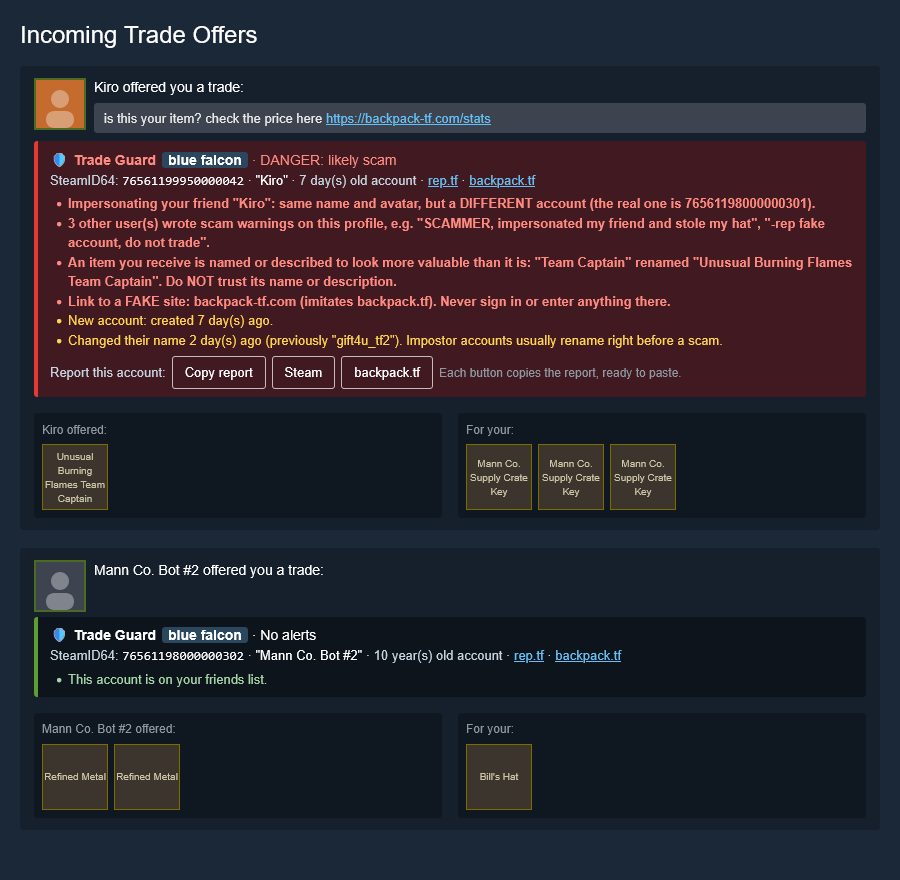
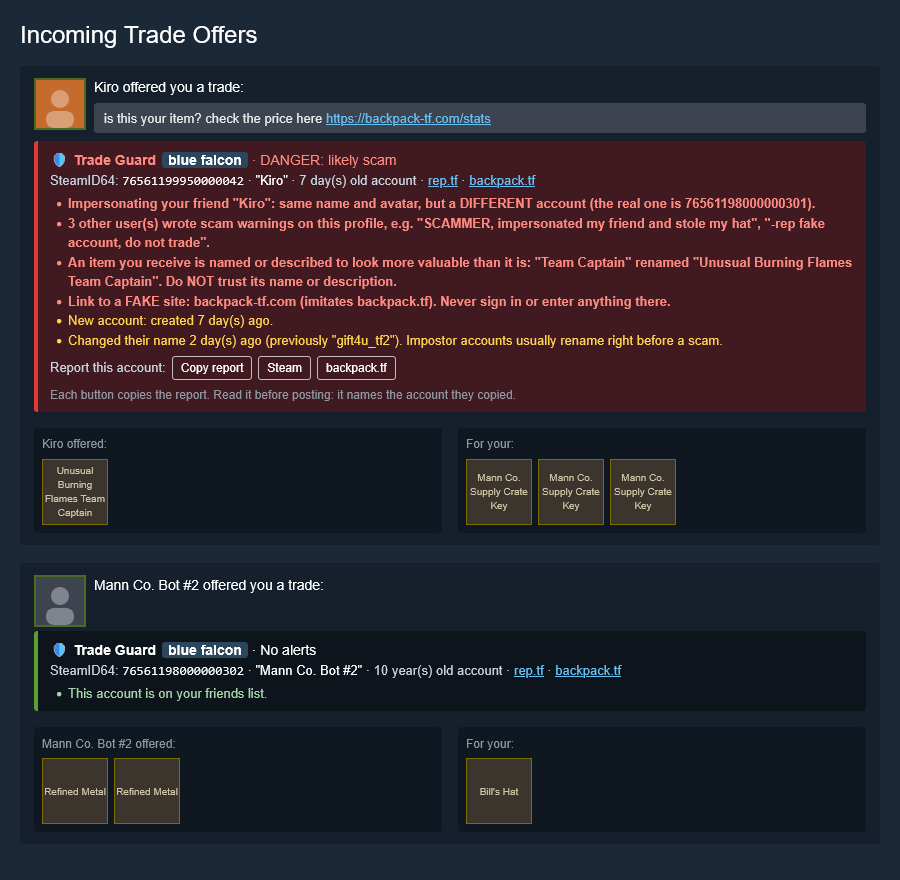
Document the review fixes and refresh the screenshots

Changed region(s): [[0.0311, 0.3989, 0.9644, 0.7977], [0.0311, 0.8284, 0.2178, 0.9511], [0.4978, 0.8284, 0.5911, 0.9511]]

diff --git a/README.md b/README.md
@@ -42,13 +42,13 @@ A userscript that protects Steam traders from the scams that empty the most TF2 
 - **What the community wrote:** reads the partner's profile comments. Warnings from several different people ("scammer", "stole", "impostor", "-rep") raise the alert; praise like "+rep, not a scammer" doesn't count. A new account with its comments hidden gets a yellow note.
 - **Verified bots:** paste the SteamIDs from a trading site's official bot list (menu → *Verified bots*). From then on, any other account using one of those names is flagged red, even on first contact. Lists can be exported and imported as JSON.
 - **Before you confirm:** the trade window reminds you what the Steam app or email confirmation must show: the partner's name and account age.
-- **Report a scammer:** red panels get *Copy report*, *Steam* and *backpack.tf* buttons. Each copies a ready-to-paste report (scammer, who they copied, what was detected) and opens the place to send it. On Steam, the profile shows how to reach *Report Player → Attempted Trade Scam*. Trade Guard never submits anything itself.
+- **Report a scammer:** red panels get *Copy report*, *Steam* and *backpack.tf* buttons. Each copies a ready-to-paste report (scammer, who they copied, what was detected), written in the third person so it never says who your friends are, and opens the place to send it. On Steam, the profile shows how to reach *Report Player → Attempted Trade Scam*; that guide only appears for the button you just clicked, never from a link someone sends you. Trade Guard never submits anything itself.
 
 **Signing in through Steam** (`steamcommunity.com/openid/...`)
-- Shows which site you're signing in to. Known trading sites get a green bar, unknown sites a yellow one, and lookalike domains or a sign-in that sends you back to a different site a red one. It works before you sign in, on the password form itself.
+- Shows which site you're signing in to. Known trading sites get a green bar, unknown sites a yellow one, and lookalike domains, a sign-in that sends you back to a different site, or a request Steam could read two ways a red one. It works before you sign in, on the password form itself.
 
 **Your secret phrase** (menu → *Set secret phrase*)
-- Shown on every Trade Guard panel, banner and sign-in bar. A fake panel written into an offer message, or a fake "Steam login" window drawn inside a phishing site, can't show it: if the phrase is missing, it isn't Trade Guard.
+- Shown on every Trade Guard panel, banner and sign-in bar. A fake panel written into an offer message, or a fake "Steam login" window drawn inside a phishing site, can't show it: if the phrase is missing, it isn't Trade Guard. Keep it out of screenshots you share.
 
 **Security checkup** (menu → *Security checkup*)
 - Your API key status (with *Check now*), your secret phrase, your verified bots, what Trade Guard has stored, and a *Forget everything* button.
@@ -60,7 +60,7 @@ A userscript that protects Steam traders from the scams that empty the most TF2 
 
 - **Only talks to `steamcommunity.com`.** It makes no request to any other domain, has no `@connect` entries and doesn't use `GM_xmlhttpRequest`.
 - Doesn't read cookies or your session ID, and never sends, accepts or modifies trade offers. It only adds warning panels.
-- Everything it remembers (friends, past trade partners, cached profiles, your verified bots and secret phrase) stays in Tampermonkey's local storage. Data about your account is kept per Steam account, so alts on the same browser never mix. Of a partner's comments, only the scam warnings are kept. *Forget everything* in the security checkup deletes it all.
+- Everything it remembers (friends, past trade partners, cached profiles, your verified bots and secret phrase) stays in Tampermonkey's local storage. Data about your account is kept per Steam account, so alts on the same browser never mix. Of a partner's comments, only the scam warnings are kept. *Forget everything* in the security checkup deletes it all, except when each friend was first seen, so a reset can't make a recently added friend look long-standing.
 - Its permissions, and what for: storage (`GM_getValue`, `GM_setValue`, `GM_listValues`, `GM_deleteValue`), styles (`GM_addStyle`), the Tampermonkey menu (`GM_registerMenuCommand`), and the clipboard (`GM_setClipboard`), which is only written when you click a report or export button.
 - Names from Steam are inserted as plain text, never as HTML.
 - **It fails loudly.** If a check can't run (Steam changed a page, a request failed, the friends list didn't load), you get a yellow warning instead of a green "No alerts".
@@ -84,7 +84,7 @@ The script declares `@downloadURL none`, so Tampermonkey never updates it on its
 - It warns you, it can't stop you. Always check the items and the partner in the Steam Guard mobile confirmation.
 - Impostor detection only knows your friends, the partners it has seen while installed and your verified bots. A first contact with an impostor of a bot that isn't on your verified list can't be detected by name (a trade hold or a new account may still give it away).
 - The trade-hold check needs your own side of the trade to have no hold; otherwise it stays quiet rather than guess.
-- Comment warnings are a hint, not a verdict: friends joke, and scammers delete comments. Several different people warning is what raises the alert.
+- Comment warnings are a hint, not a verdict: friends joke, and scammers delete comments. Several different people warning is what raises the alert, and on a long-standing friend or a verified bot it stays a warning.
 - Steam has no direct link to its report form, so the *Steam* report button opens the profile and explains the three clicks. backpack.tf reports go through its issue tracker.
 - Item checks need Steam to describe each item: in a new offer they read the partner's public inventory, so a private inventory (or Steam's rate limit) means a yellow "couldn't check every item" instead.
 - Phishing detection knows Steam and the main TF2 trading sites. A phishing site that imitates something else only gets the generic "unknown link" warning.
@@ -95,11 +95,12 @@ The script declares `@downloadURL none`, so Tampermonkey never updates it on its
 ## Development
 
 The userscript is a single file with no dependencies, so what you read here is exactly what you install.
-It has three parts: `Core` (pure detection logic), `Page` (reads Steam's markup) and the browser layer.
-The tests cover all three:
+It has four parts: `Core` (pure detection logic), `Page` (reads Steam's markup), `Strings` (every text
+the user reads) and the browser layer. The tests cover all four:
 
 - `tests/core.test.js`: the detection logic, with cases taken from real data.
 - `tests/page.test.js`: page parsing, on HTML fixtures shaped like Steam's pages.
+- `tests/strings.test.js`: every alert has its text, and reports leave the user's contacts out.
 - `tests/userscript.test.js`: the whole script running on a simulated Steam page.
 - `tests/source.test.js`, `tests/style.test.js`: no hidden characters, no HTML built from strings, one style.
 

diff --git a/CHANGELOG.md b/CHANGELOG.md
@@ -17,7 +17,8 @@ and versions follow [Semantic Versioning](https://semver.org/).
 - **Verified bots:** a list you build from trading sites' official bot pages (menu). Copies of those bots
   are flagged red even on first contact. Import and export as JSON.
 - **Sign-in guard** on Steam's "Sign in through Steam" pages: which site you're signing in to, and a red
-  bar for lookalike domains or a sign-in that returns to a different site. Works while signed out.
+  bar for lookalike domains, a sign-in that returns to a different site, or a request Steam could read
+  two ways (repeated or aliased parameters). Works while signed out.
 - **Secret phrase** (menu), shown on every panel, banner and sign-in bar, so fakes can't pass for them.
 - **Report buttons** on red panels: copy a ready-to-paste report and open Steam's report flow (with a
   guide on the profile) or backpack.tf's issue tracker.
@@ -27,12 +28,35 @@ and versions follow [Semantic Versioning](https://semver.org/).
 
 ### Fixed
 
-- Values stored as plain text (the new secret phrase) were read back as broken JSON and dropped.
+- A panel without alerts printed "null".
+- Comment warnings like "do not trade" or "he scams" went unnoticed.
 
 ### Changed
 
 - New permissions: `GM_registerMenuCommand` (menu), `GM_setClipboard` (only on a button click),
   `GM_listValues` and `GM_deleteValue` (*Forget everything*). Still no requests outside steamcommunity.com.
+- Each account the user knows is now one contact, whether it's a friend, a past partner, a verified bot or
+  all three, so it gets one consistent verdict.
+- Reports are written in the third person and never say who the user's friends are.
+- Several people calling a long-standing friend or a verified bot a scammer is a warning, not a red verdict.
+- *Forget everything* keeps when each friend was first seen, so a reset can't turn a recent friend into a
+  trusted one.
+- The browser layer is organized into named sections, and every text lives in one `Strings` table.
+
+### Security
+
+Found by an independent review of this release before it was published, and fixed in it:
+
+- The report guide could be shown, with the user's secret phrase, on any profile through a link. It now
+  appears only for the report button just clicked, using a one-time code.
+- A verified-bots entry turned off every other check for that account, so a planted ID could pass a copy
+  of a friend as safe. It now only skips comparisons with other verified bots, and warns when a listed bot
+  goes by another name.
+- A secret phrase starting with `[` or `{` was dropped on reload, making real panels look fake.
+- The trade-hold check could be fooled by a partner name containing Steam's variable name.
+- Pasting a single SteamID into the verified list added nothing, and numeric IDs in a JSON list were
+  rounded to a different account.
+- A partner's private inventory was requested again for every item added to an offer.
 
 ## [0.7.2] - 2026-10-29
 
